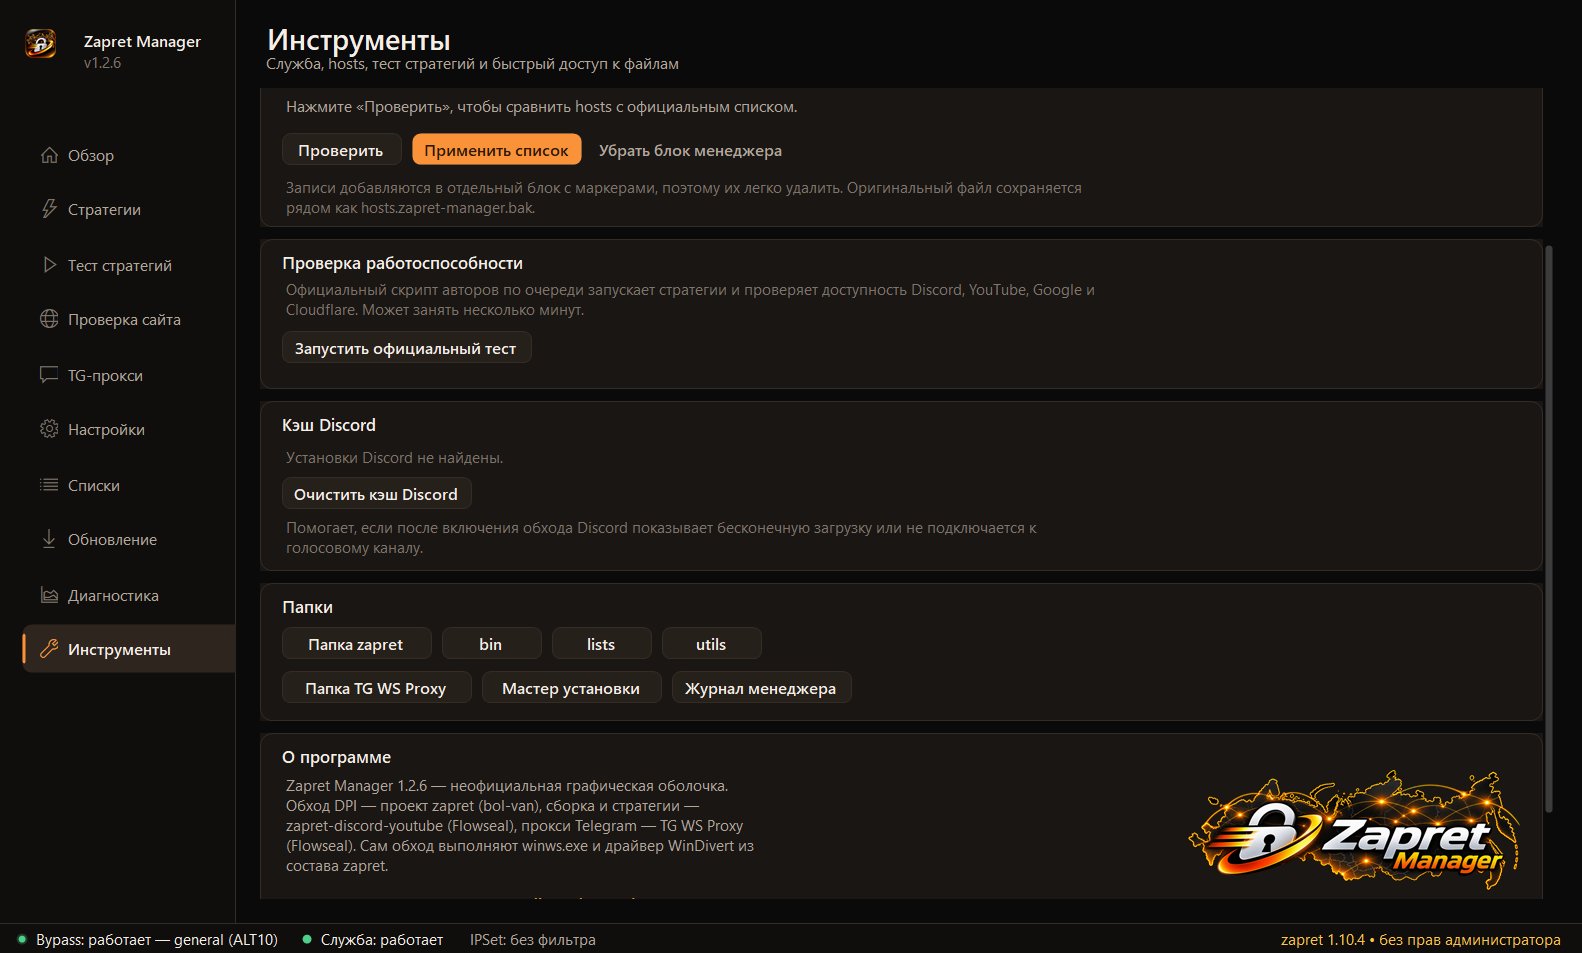
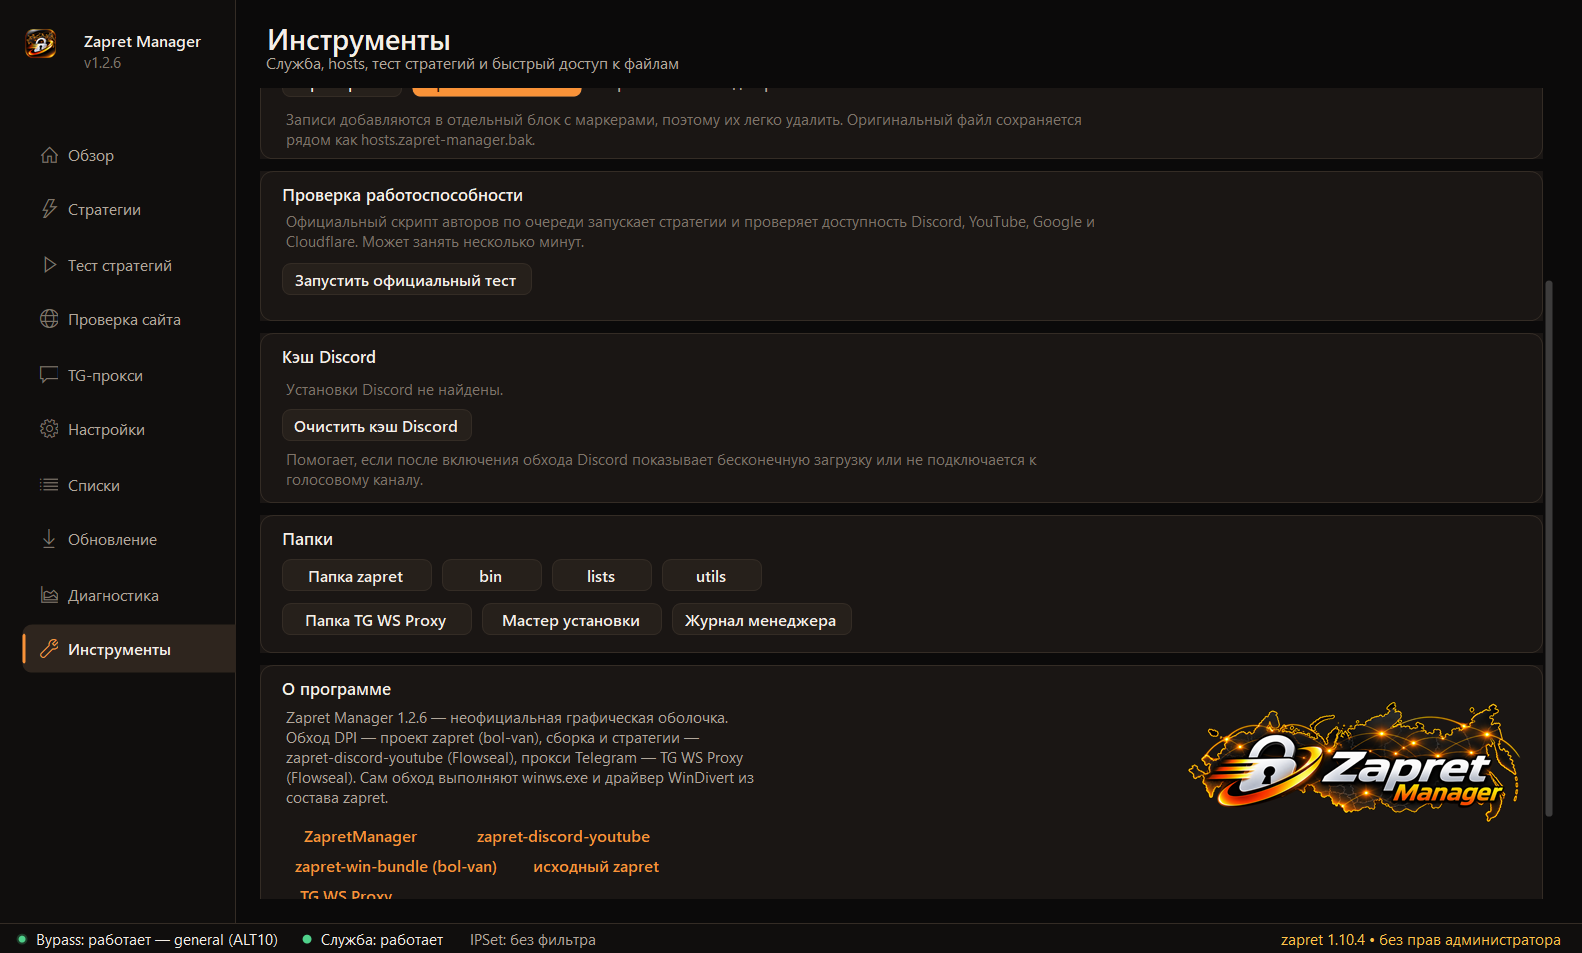
MIT-лицензия, значки поддержки в «О программе», DPI-макет и масштаб интерфейса
- LICENSE (MIT) + раздел «Лицензия» и «Поддержать проект» в README
- LinkBadge: кликабельные значки Boosty и DonationAlerts с подписью «На хлебушек» в карточке «О программе»
- масштаб интерфейса кнопками 90/100/110 (выпадающий список показывал «0 %»)
- прокрутка: страницы получают PerformLayout после масштабирования, шот-режим прокручивает после раскладки

diff --git a/src/UI2.cs b/src/UI2.cs
@@ -469,6 +469,56 @@ namespace ZapretManager
         }
     }
 
+    /// <summary>Небольшой кликабельный значок-ссылка (Boosty, DonationAlerts).</summary>
+    public sealed class LinkBadge : Control
+    {
+        public string Url = "";
+        private Color _dot = Theme.Accent;
+        private bool _hover;
+        public EventHandler Clicked;
+
+        public LinkBadge(string text, string url, Color dot)
+        {
+            SetStyle(ControlStyles.AllPaintingInWmPaint | ControlStyles.UserPaint | ControlStyles.OptimizedDoubleBuffer | ControlStyles.SupportsTransparentBackColor | ControlStyles.ResizeRedraw, true);
+            Text = text;
+            Url = url;
+            _dot = dot;
+            Font = Theme.Base;
+            Height = 28;
+            Width = TextRenderer.MeasureText(text, Font).Width + 46;
+            Cursor = Cursors.Hand;
+            BackColor = Color.Transparent;
+        }
+
+        protected override void OnMouseEnter(EventArgs e) { _hover = true; Invalidate(); base.OnMouseEnter(e); }
+        protected override void OnMouseLeave(EventArgs e) { _hover = false; Invalidate(); base.OnMouseLeave(e); }
+
+        protected override void OnClick(EventArgs e)
+        {
+            base.OnClick(e);
+            try
+            {
+                if (!string.IsNullOrEmpty(Url)) Native.OpenUrl(Url);
+                if (Clicked != null) Clicked(this, EventArgs.Empty);
+            }
+            catch { }
+        }
+
+        protected override void OnPaint(PaintEventArgs e)
+        {
+            Graphics g = e.Graphics;
+            g.SmoothingMode = SmoothingMode.AntiAlias;
+            Rectangle r = new Rectangle(0, 0, Width - 1, Height - 1);
+            Draw.FillRound(g, r, Height / 2, _hover ? Theme.Hover : Theme.SurfaceAlt);
+            Draw.DrawRound(g, r, Height / 2, _hover ? Theme.BorderStrong : Theme.Border, 1f);
+            using (SolidBrush b = new SolidBrush(_dot))
+            {
+                g.FillEllipse(b, 10, Height / 2 - 5, 10, 10);
+            }
+            TextRenderer.DrawText(g, Text, Font, new Rectangle(26, 0, Width - 34, Height), Theme.Text,
+                TextFormatFlags.Left | TextFormatFlags.VerticalCenter | TextFormatFlags.NoPrefix);
+        }
+    }
     /// <summary>Строка результата проверки.</summary>
     public class CheckRow : Panel
     {

diff --git a/src/Shell.cs b/src/Shell.cs
@@ -518,7 +518,16 @@ namespace ZapretManager
                     return;
                 }
                 Navigate(AppInfo.ShotPage);
-                if (AppInfo.ShotScroll > 0 && _shell.Current != null) _shell.Current.View.ScrollTo(AppInfo.ShotScroll);
+                if (AppInfo.ShotScroll > 0 && _shell.Current != null)
+                {
+                    // даём странице разложиться: иначе максимум прокрутки ещё нулевой
+                    _shell.Current.View.Stack.PerformLayout();
+                    _shell.Current.View.PerformLayout();
+                    Application.DoEvents();
+                    _shell.Current.View.Stack.PerformLayout();
+                    _shell.Current.View.ScrollTo(AppInfo.ShotScroll);
+                    Application.DoEvents();
+                }
             }
             TopMost = true;
             StartPosition = FormStartPosition.Manual;

diff --git a/src/PageTools.cs b/src/PageTools.cs
@@ -212,11 +212,10 @@ namespace ZapretManager
             tgproxy.Location = new Point(22, y + 60);
             tgproxy.Click += delegate { Native.OpenUrl("https://github.com/Flowseal/tg-ws-proxy"); };
             _aboutCard.Controls.Add(tgproxy);
-
-            Label v = L("Настройки и журнал: " + AppPaths.DataDir, Theme.Small, Theme.TextMuted, 22, y + 92);
+            Label v = L("Настройки и журнал: " + AppPaths.DataDir, Theme.Small, Theme.TextMuted, 22, y + 96);
             _aboutCard.Controls.Add(v);
 
-            _aboutCard.Height = y + 92 + 16 + 14;
+            _aboutCard.Height = y + 96 + 16 + 14;
             View.Stack.Add(_aboutCard);
         }
         private void InstallService()

diff --git a/src/UI.cs b/src/UI.cs
@@ -983,6 +983,8 @@ namespace ZapretManager
         public void ScrollTo(int offset)
         {
             _offset = Math.Max(0, Math.Min(MaxOffset, offset));
+            Log.Info(string.Format("Прокрутка: запрошено {0}, максимум {1}, content {2}, стек {3}, окно {4}",
+                offset, MaxOffset, Stack.ContentHeight, Stack.Height, ClientSize.Height));
             ApplyOffset();
             Invalidate();
         }
